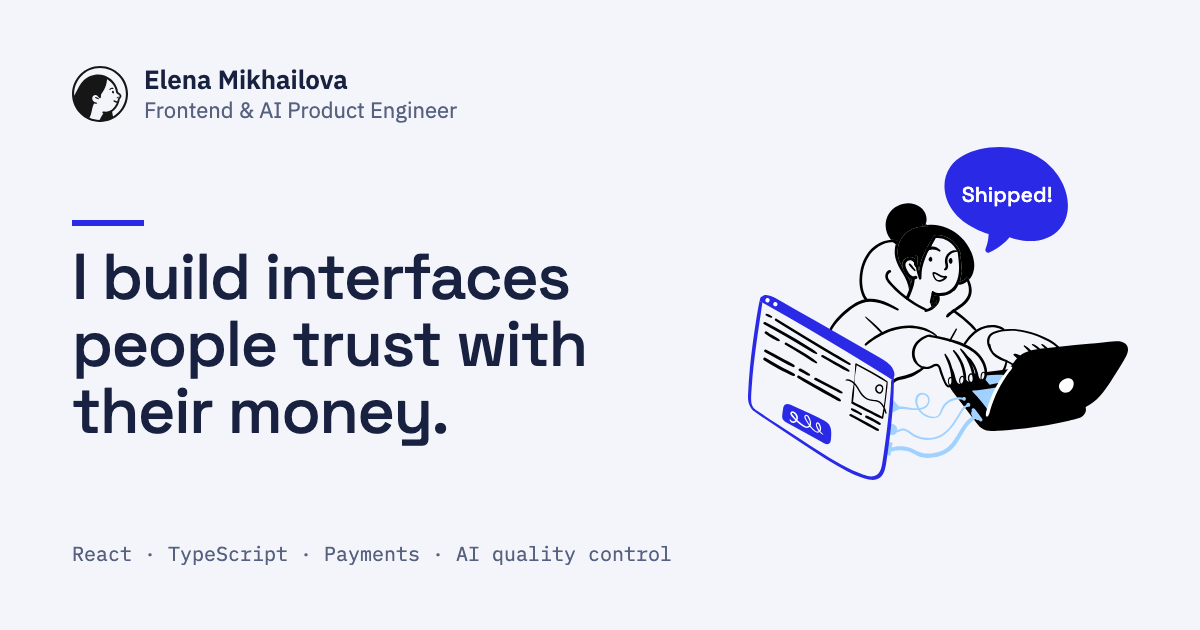
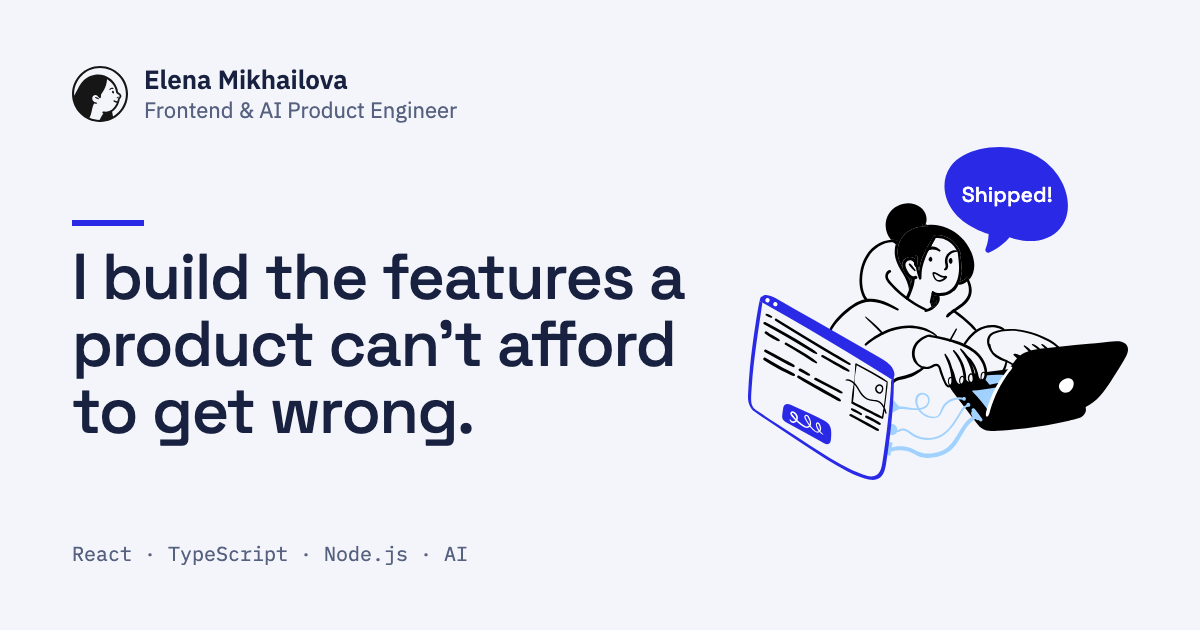
Reposition copy around product ownership

Changed region(s): [[0.0617, 0.5127, 0.5858, 0.7238], [0.2158, 0.3921, 0.5858, 0.4825], [0.2775, 0.8444, 0.555, 0.9048]]

diff --git a/src/data/data.ts b/src/data/data.ts
@@ -13,15 +13,23 @@ export const data: SiteData = {
     title: 'About me',
     description: [
       'Before tech, I spent 15 years as a chief accountant, so payment logic is second nature to me — edge cases included.',
-      'Day to day, I work with React, TypeScript and Node.js, favoring config-driven architecture and writing tests first. I use AI coding agents to move faster, but I make the design calls and review every change.',
+      'Day to day, I take features from a rough request to production and keep them running. React, TypeScript and Node.js, config-driven architecture, AI coding agents for speed — and every design call and every merge is still mine.',
       'Outside work, I’m a long-distance runner and do CrossFit.',
     ],
     principlesTitle: 'How I work',
     principles: [
-      'Turning vague requirements into clear, workable tasks',
-      'Challenging assumptions instead of taking specs at face value',
-      'Sweating the details in money-critical UI',
-      'Giving direct, constructive code review',
+      {
+        title: 'Built for the next change.',
+        text: 'What will change lives in config, so the next request is a settings change, not a new deploy.',
+      },
+      {
+        title: 'Launch is the midpoint.',
+        text: 'I watch what real users do with a feature and turn every failed or rejected case into the next improvement.',
+      },
+      {
+        title: 'Reconcile, then trust.',
+        text: 'Fifteen years of closing books taught me that totals add up before anyone signs off. My checkout flows and AI features answer to the same rule.',
+      },
     ],
     educationTitle: 'Education',
     education: [
@@ -86,8 +94,8 @@ export const data: SiteData = {
     name: 'Elena Mikhailova',
     role: 'Frontend & AI Product Engineer',
     status: 'Based in Novi Sad, Serbia · Open to remote work and relocation',
-    title: 'I build interfaces people trust with their money.',
-    lead: 'Checkout and subscription flows in React and TypeScript. AI content pipelines with automated quality control. And an accountant’s eye for the numbers.',
+    title: 'I build the features a product can’t afford to get wrong.',
+    lead: 'Checkout, sign-in, real-time chat, bookings and AI pipelines in React, TypeScript and Node.js — shipped to production and kept running after launch.',
     primaryAction: { href: `#${SectionId.WORK}`, label: 'See selected work' },
     secondaryAction: { href: `#${SectionId.CONTACTS}`, label: 'Get in touch' },
   },
@@ -104,18 +112,18 @@ export const data: SiteData = {
   ],
   work: {
     title: 'Selected work',
-    intro: 'Production work where correctness comes first.',
+    intro: 'Products I built and kept answering for after launch.',
     items: [
       {
-        title: 'Automated quality control for an AI content pipeline',
+        title: 'An AI content pipeline that checks its own output',
         company: 'HeroContent.ai',
         period: 'Dec 2025 – present',
         summary:
           'A social media platform for restaurants generates posts with AI. Manual visual review was rejecting about 40% of the content.',
         contributions: [
-          'Automated Vision QA audit with issue-specific gates to cut false positives',
-          'Read-only, tool-using agent that audits plans, calendars and approvals and posts alerts to Telegram',
-          'Rejection-reason analytics feeding back into prompts and templates',
+          'Built a vision-model review step with issue-specific rules, so only real defects get blocked',
+          'Built a monitoring agent that watches every client’s plans, calendars and approvals and alerts the team in Telegram',
+          'Turned rejection reasons into analytics that feed back into prompts and templates',
         ],
         result: 'Manual image review down to zero.',
         tags: ['Claude API', 'OpenAI API', 'TypeScript', 'Python', 'AI agents'],
@@ -155,9 +163,9 @@ export const data: SiteData = {
       {
         title: 'AI product engineering',
         description:
-          'Quality control for a production AI content pipeline: automated visual review, error analysis and a monitoring agent — so output is measured, not eyeballed.',
+          'LLM features in production, built with their own measurement: vision-model review, error analysis and a monitoring agent.',
         tools: [
-          'Automated visual QA (vision models)',
+          'Vision-model review',
           'Error analysis',
           'Prompt & template routing',
           'Read-only tool-using agents',
@@ -194,9 +202,9 @@ export const data: SiteData = {
         ],
       },
       {
-        title: 'Quality & delivery',
+        title: 'Delivery & reliability',
         description:
-          'Every change tested and reviewed — including code written with AI assistants.',
+          'I ship and support what I build: tests on critical flows, CI, and AI-written code reviewed before it merges.',
         tools: [
           'Jest',
           'React Testing Library',

diff --git a/index.html b/index.html
@@ -16,16 +16,16 @@
     <link rel="canonical" href="https://elena-mikhailova.vercel.app/" />
     <meta
       name="description"
-      content="Elena Mikhailova, Frontend &amp; AI Product Engineer. Checkout and subscription flows in React and TypeScript, and AI content pipelines with automated quality control."
+      content="Elena Mikhailova, Frontend &amp; AI Product Engineer. Checkout, sign-in, real-time chat, bookings and AI pipelines in React, TypeScript and Node.js, shipped to production and kept running after launch."
     />
     <meta property="og:type" content="website" />
     <meta property="og:url" content="https://elena-mikhailova.vercel.app/" />
     <meta property="og:title" content="Elena Mikhailova — Frontend & AI Product Engineer" />
     <meta
       property="og:description"
-      content="I build interfaces people trust with their money. Stripe and Klarna checkout, subscriptions and AI content pipelines with automated quality control."
+      content="I build the features a product can’t afford to get wrong. Checkout, sign-in, real-time chat, bookings and AI pipelines in React, TypeScript and Node.js."
     />
-    <meta property="og:image" content="https://elena-mikhailova.vercel.app/og-image.png?v=4" />
+    <meta property="og:image" content="https://elena-mikhailova.vercel.app/og-image.png?v=5" />
     <meta property="og:image:type" content="image/png" />
     <meta property="og:image:width" content="1200" />
     <meta property="og:image:height" content="630" />

diff --git a/src/sections/about/about.tsx b/src/sections/about/about.tsx
@@ -17,11 +17,14 @@ function About({ about }: AboutProps) {
         ))}
       </div>
       <div className="about__columns">
-        <div className="about__column">
+        <div className="about__column about__column_wide">
           <h3 className="about__subtitle">{about.principlesTitle}</h3>
           <ul className="about__principles">
             {about.principles.map((principle) => (
-              <li key={principle}>{principle}</li>
+              <li key={principle.title}>
+                <strong className="about__principle-title">{principle.title}</strong>{' '}
+                {principle.text}
+              </li>
             ))}
           </ul>
         </div>

diff --git a/src/sections/about/about.scss b/src/sections/about/about.scss
@@ -14,7 +14,7 @@
 
   @include tablet {
     gap: 48px 32px;
-    grid-template-columns: repeat(3, minmax(0, 1fr));
+    grid-template-columns: repeat(2, minmax(0, 1fr));
   }
 }
 
@@ -43,10 +43,26 @@
   padding-top: 16px;
 }
 
+.about__column_wide {
+  @include tablet {
+    grid-column: 1 / -1;
+  }
+}
+
 .about__subtitle {
   @include subheading;
 }
 
 .about__principles {
-  @include marker-list(8px);
+  @include marker-list(16px);
+
+  @include tablet {
+    column-gap: 40px;
+    display: grid;
+    grid-template-columns: repeat(3, minmax(0, 1fr));
+  }
+}
+
+.about__principle-title {
+  font-weight: 600;
 }

diff --git a/src/data/type.ts b/src/data/type.ts
@@ -56,13 +56,18 @@ export interface LanguageItem {
   name: string;
 }
 
+export interface Principle {
+  text: string;
+  title: string;
+}
+
 export interface AboutData {
   description: string[];
   education: EducationItem[];
   educationTitle: string;
   languages: LanguageItem[];
   languagesTitle: string;
-  principles: string[];
+  principles: Principle[];
   principlesTitle: string;
   title: string;
 }

diff --git a/src/sections/hero/hero.scss b/src/sections/hero/hero.scss
@@ -6,7 +6,7 @@
   padding-top: 32px;
 
   @include tablet {
-    grid-template-columns: minmax(0, 1.8fr) minmax(0, 1fr);
+    grid-template-columns: minmax(0, 2.4fr) minmax(0, 1fr);
     min-height: min(720px, 85dvh);
   }
 }
